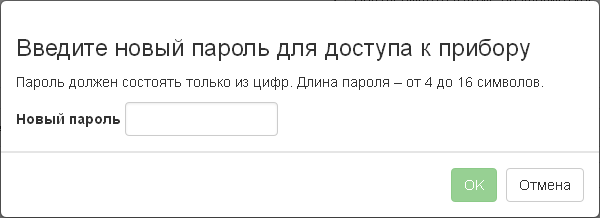
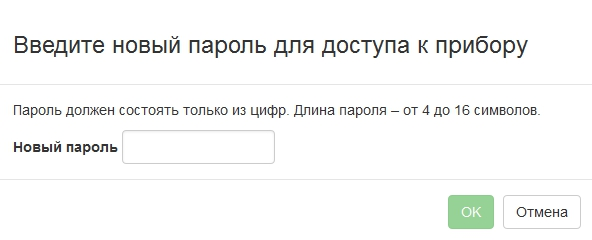
+ вкладка Разное

diff --git a/nord/06-07-08-config-misc-config-protection.md b/nord/06-07-08-config-misc-config-protection.md
@@ -1,5 +1,7 @@
 ### Раздел «Защита конфигурации»
 
+С помощью этого раздела возможно настроить параметры для защиты от несанкционированного доступа и злоумышленного внесения изменений в параметры приборов.
+
 \begin{minipage}{\linewidth}
 	\makebox[\linewidth]{
  		\includegraphics[width=0.9\textwidth]{img/06-07-config-nord-07-01.png}
@@ -7,11 +9,10 @@
 	\captionof*{figure}{Вкладка «Разное», раздел «Защита конфигурации»}
 \end{minipage}
 
-**Разрешить сброс значений параметров в заводские**  
+**Пароль для доступа к прибору**
 
-**Пауза перед сбросом**  
-
-**Изменить пароль для доступа к прибору...**
+Обязательная аутентификация по паролю при подключении к прибору по USB - еще один способ обеспечения безопасности.   
+По умолчанию пароль для подключения к прибору по USB - **0000**. Чтобы повысить безопасность, следует изменить стандартный пароль доступа на новый. Длина пароля может быть от 4 до 16 цифр. Рекомендуется установить пароль, состоящий из максимально допустимого количества цифр.   
 
 \begin{minipage}{\linewidth}
 	\makebox[\linewidth]{
@@ -20,5 +21,41 @@
 	\captionof*{figure}{Вкладка «Разное», раздел «Защита конфигурации», диалог для изменения пароля для доступа к прибору.}
 \end{minipage}
 
+Если пароль утерян, а удаленное подключение к прибору невозможно, восстановить доступ к прибору можно только при сбросе значений всех его параметров в заводские. При этом будут удалены все настройки прибора, включая шлейфы, пользователей, разделы и прочее, а пароль для подключения к прибору по USB примет значение по умолчанию.
+
+**Разрешить сброс значений параметров в заводские**  
+
+Функцию сброса значений можно включить или выключить для конкретного прибора. Разрешая сброс значений параметров, можно задать **паузу перед сбросом**. По умолчанию этот параметр установлен на 30 секунд, однако, можно выбрать значение 5 минут, 30 минут, 12 часов или 24 часа.
+
+Если функция сброса конфигурации включена, окно для ввода пароля будет содержать кнопку «Сбросить конфигурацию».
+
+\begin{minipage}{\linewidth}
+	\makebox[\linewidth]{
+ 		\includegraphics[width=0.9\textwidth]{img/06-07-config-nord-07-03.png}
+ 	}
+	\captionof*{figure}{Вкладка «Разное», раздел «Защита конфигурации», диалог для сброса конфигурации прибора.}
+\end{minipage}
+
+При нажатии на кнопку «Сбросить конфигурацию» прибор формирует событие с кодом **E752** и начинает отсчет заданной паузы.
+
+Рекомендуется устанавливать максимальные значения параметра *Пауза перед сбросом*, так как подобная задержка обеспечивает дополнительную защиту. В случае, если конфигурацию прибора сбрасывает злоумышленник, ЧОП успевает отреагировать на несанкционированный доступ к прибору.
+
 **Включить функцию «Защита от угона»**
 
+Если эта функция включена и изменения сохранены в приборе, то для этого прибора больше нельзя будет изменить значения следующих параметров:
+
+* адреса для подключения по GPRS
+* адреса для подключения по Ethernet
+* формат станции для передачи по радио
+
+Перед сохранением конфигурации в прибор выдается предупреждение:
+
+\begin{minipage}{\linewidth}
+	\makebox[\linewidth]{
+ 		\includegraphics[width=0.9\textwidth]{img/06-07-config-nord-07-04.png}
+ 	}
+	\captionof*{figure}{Вкладка «Разное», раздел «Защита конфигурации», предупреждение о включении «Защиты от угона»}
+\end{minipage}
+
+Включить функцию «Защита от угона» можно как при подключении по USB, так и при удаленном программировании.   
+Отключить функцию «Защита от угона» можно только, обратившись в [техническую поддержку компании](mailto:support@cnord.ru) с официальным запросом в «Си-Норд»

diff --git a/nord/06-07-07-config-misc-control-indication.md b/nord/06-07-07-config-misc-control-indication.md
@@ -1,5 +1,6 @@
 ### Раздел «Управление и индикация»
 
+
 \begin{minipage}{\linewidth}
 	\makebox[\linewidth]{
  		\includegraphics[width=0.9\textwidth]{img/06-07-config-nord-06-01.png}
@@ -9,12 +10,24 @@
 
 **Настройка светового оповещателя выполняется на вкладке «Автоматика»**
 
+Для того, чтобы пользователь мог визуально контролировать состояние охранной сигнализации на объекте, к прибору можно подключить световой оповещатель с напряжением питания 12В. Настройка этого оповещателя производится на вкладке [Автоматика](#config-automation).
+
 **Подключена клавиатура «Риф-КТМ (Си-Норд)»**
+
+Если используется беспроводная клавиатура РИФ-КТМ, необходимо установить соответствующую галочку, чтобы индикация клавиатуры работала правильно.
 
 **Коды пользователей длиной 6 цифр**
 
+В приборе возможно использовать шестизначные коды для взятия и снятия. Чтобы установить данную галочку, в приборе не должны быть заведены пользователи  с 4х-значным кодом.
+
 **Разрешить использование клавиатуры в качестве тревожной кнопки**
 
+Для использования клавиатуры в качестве тревожной кнопки, необходимо установить соответствующую галочку. Тревожная кнопка активируется длительным нажатием звёздочки и решетки  или домиков одновременно.
+
+**Включить режим постоянного опроса интерфейса 1-Wire**
+
+Режим постоянного опроса 1-Wire необходимо включать, если к прибору подключены проводные датчики температуры или расширитель «РПШ-12».
+Этот режим несовместим с некоторыми считывателями proximity-карт и клавиатурой «Риф-КТМ (Си-Норд)».
 
 
 \begin{minipage}{\linewidth}
